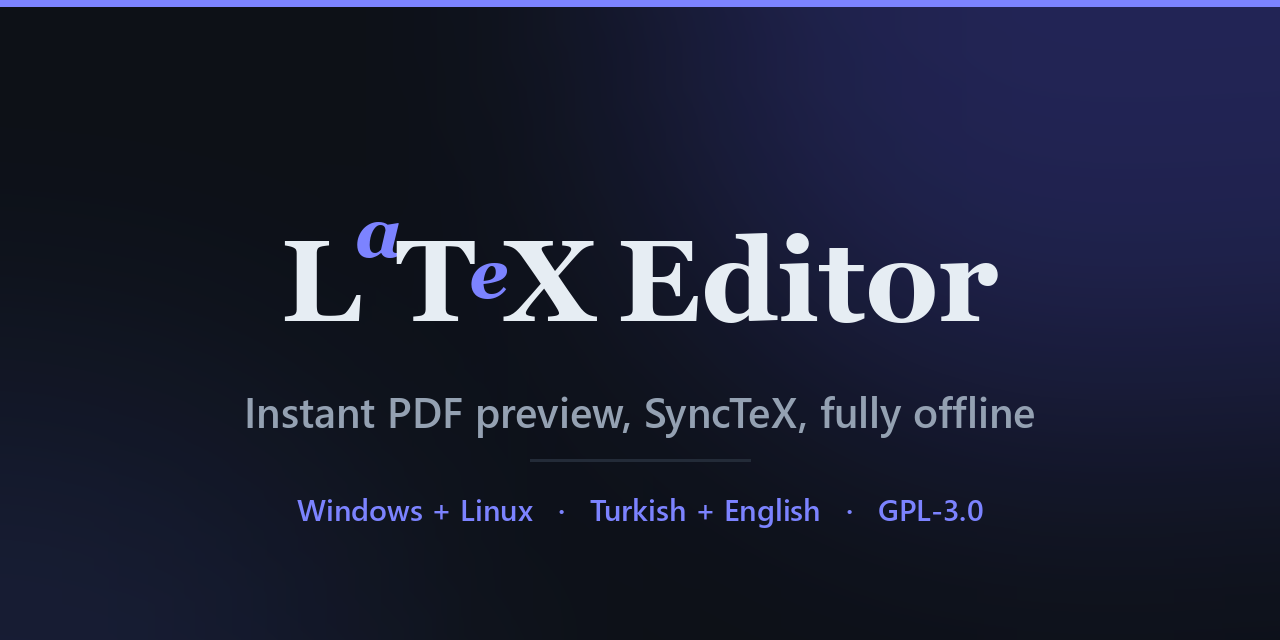
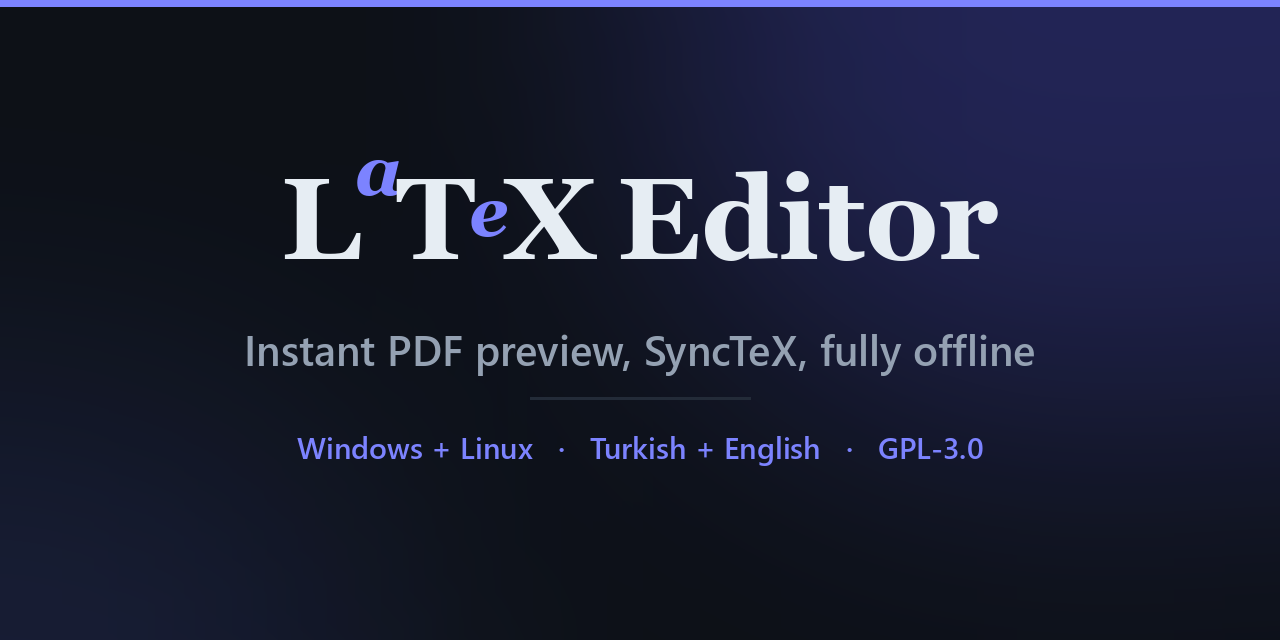
fix(docs): sosyal kartta icerik dikeyde ortali degildi
Kart yuklenip arama sonucunda gorulunce fark edildi: icerik asagi
kaymisti, ustte 222 px altta 113 px bosluk vardi.  degerini gozle
secmisim, olcmemisim.

152 ye cekildi: ustte 160, altta 174. Optik merkez icin ustteki bosluk
alttakinden biraz az olmali.

Betige dikey denge denetimi eklendi, punto ya da satir sayisi degisince
ayni sey sessizce tekrarlanmasin: tolerans disina cikarsa gorseli hic
yazmiyor ve  degerini kac piksel kaydiracagini soyluyor. Iki yonde
de denendi, ikisinde de cikis kodu 1.

Changed region(s): [[0.1875, 0.25, 0.8125, 0.7188], [0.2188, 0.7812, 0.6562, 0.8125], [0.6875, 0.7812, 0.7812, 0.8125]]

diff --git a/scripts/github_sosyal_kart.py b/scripts/github_sosyal_kart.py
@@ -83,6 +83,33 @@ def latex_marka(cizim, x, y, boy):
     return imlec
 
 
+def _dikey_denge(im, tolerans=42):
+    """Icerik dikeyde ortali mi? Degilse patla.
+
+    Ilk surumde `ust` degeri gozle secilmisti ve icerik asagi kaymisti:
+    ustte 222, altta 113 px. Kart yuklendikten sonra fark edildi. Punto ya
+    da satir sayisi degisince ayni sey yine olur, o yuzden olcum burada.
+
+    Optik merkez: ustteki bosluk alttakinden BIRAZ AZ olmali. Tolerans
+    disina cikarsa gorsel yazilmiyor.
+    """
+    gri = im.convert("L")
+    # Ustteki vurgu seridi metin degil, olcume katilmasin
+    govde = gri.crop((0, 12, EN, BOY))
+    kutu = govde.point(lambda p: 255 if p > 120 else 0).getbbox()
+    if kutu is None:                             # pragma: no cover
+        raise SystemExit("kartta hic metin bulunamadi")
+    ust_bosluk = kutu[1] + 12
+    alt_bosluk = BOY - (kutu[3] + 12)
+    fark = ust_bosluk - alt_bosluk
+    if fark > tolerans or fark < -tolerans * 2:
+        raise SystemExit(
+            "icerik dikeyde ortali degil: ustte %d px, altta %d px. "
+            "`ust` degerini %+d kaydir."
+            % (ust_bosluk, alt_bosluk, -fark // 2))
+    print("  dikey denge: ustte %d px, altta %d px" % (ust_bosluk, alt_bosluk))
+
+
 def uret():
     im = Image.new("RGB", (EN, BOY), ZEMIN)
 
@@ -124,7 +151,10 @@ def uret():
             "metin karta sigmiyor: %d px, kullanilabilir %d px. "
             "Satirlari kisalt ya da punto dusur." % (en_genis, EN - 160))
 
-    ust = 214
+    # DIKEY KONUM. Once 214 idi ve icerik gozle gorulur asagi kaymisti
+    # (olculdu: ustte 222, altta 113 px). Optik merkez icin ustteki bosluk
+    # alttakinden BIRAZ AZ olmali; asagidaki _dikey_denge bunu denetliyor.
+    ust = 152
     son = latex_marka(c, (EN - marka_en) // 2, ust, marka_boy)
     c.text((son + 26, ust), "Editor", font=duz, fill=METIN)
 
@@ -134,6 +164,8 @@ def uret():
     c.line(((EN - 220) // 2, ay, (EN + 220) // 2, ay), fill=CIZGI, width=3)
 
     c.text(((EN - kunye_en) // 2, ay + 28), KUNYE, font=kunye_tf, fill=VURGU)
+
+    _dikey_denge(im)
 
     os.makedirs(os.path.dirname(CIKTI), exist_ok=True)
     im.save(CIKTI, "PNG", optimize=True)
